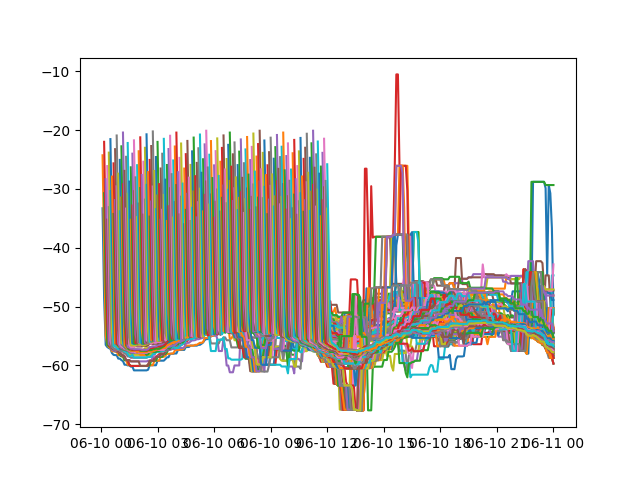
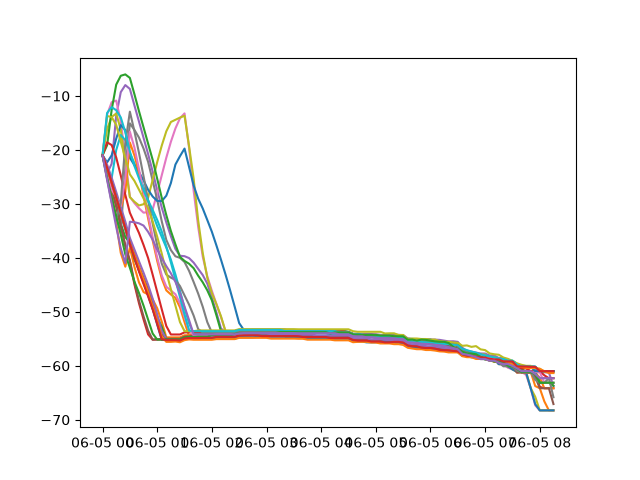
wip nov 9

diff --git a/opendrift/models/sedimentdrift.py b/opendrift/models/sedimentdrift.py
@@ -24,7 +24,7 @@ import logging; logger = logging.getLogger(__name__)
 from opendrift.models.oceandrift import OceanDrift
 from opendrift.models.oceandrift import Lagrangian3DArray
 from opendrift.config import CONFIG_LEVEL_ESSENTIAL, CONFIG_LEVEL_BASIC, CONFIG_LEVEL_ADVANCED
-
+logging.basicConfig(level=logging.WARNING)
 class SedimentElement(Lagrangian3DArray):
     variables = Lagrangian3DArray.add_variables([
         ('settled', {'dtype': np.uint8,  # 0 is active, 1 is settled
@@ -111,9 +111,12 @@ class SedimentDrift(OceanDrift):
         # self.elements.moving to 0.
         # These elements will not move until eventual later resuspension.
         settling = np.logical_and(self.elements.z <= seafloor_depth, self.elements.moving==1)
+        threshold = self.get_config('vertical_mixing:resuspension_threshold')
         if np.sum(settling) > 0:
             logger.debug('Settling %s elements at seafloor' % np.sum(settling))
             self.elements.moving[settling] = 0
+            if threshold is None:
+                self.elements.activated[settling] = 1
 
     def resuspension(self):
         """Resuspending elements if current speed > .5 m/s"""

diff --git a/opendrift/models/oceandrift.py b/opendrift/models/oceandrift.py
@@ -18,7 +18,8 @@ from datetime import datetime, timedelta
 import numpy as np
 import pandas as pd
 from scipy.interpolate import interp1d
-import logging; logger = logging.getLogger(__name__)
+import logging; logger = logging.getLogger(__name__); logger.setLevel(logging.WARNING) 
+
 from opendrift.models.basemodel import OpenDriftSimulation
 from opendrift.elements import LagrangianArray
 from opendrift.models.physics_methods import verticaldiffusivity_Large1994, verticaldiffusivity_Sundby1983
@@ -342,7 +343,7 @@ class OceanDrift(OpenDriftSimulation):
                     w_elevation = w_surface * (self.elements.z[applicable] + total_depth) / total_depth
                     w = w - w_elevation
                 else:
-                    logger.warning('vertical_advection_correction requires storing '
+                    logger.debug('vertical_advection_correction requires storing '
                                    'previous value of sea_surface_height')
 
             self.elements.z[applicable] = np.minimum(0,

diff --git a/examples/example_fvcom_aquaculture.py b/examples/example_fvcom_aquaculture.py
@@ -16,7 +16,7 @@ o = SedimentDrift(loglevel=20)  # Set loglevel to 0 for debug information
 
 try:
     proj = "+proj=utm +zone=9 +north +ellps=WGS84 +datum=WGS84 +units=m +no_defs"
-    fvcom = reader_netCDF_CF_unstructured.Reader(filename = '/mnt/c/tmp/rpcages03_0001.nc', proj4 = proj)
+    fvcom = reader_netCDF_CF_unstructured.Reader(filename = '/home/thupakip/data/tmp/rpcages04_0001.nc', proj4 = proj)
     o.add_reader(fvcom)
     print(fvcom)
 except:
@@ -38,7 +38,7 @@ if fvcom is not None:
     o.set_config('drift:vertical_advection_correction', True)
     o.set_config('vertical_mixing:resuspension_threshold', resuspension_threshold)
     # o.set_config('general:seafloor_action', 'deactivate')
-    fnc = '/mnt/c/tmp/rpcages_traj_sedcore_SSp5_RW5_RS10.nc'
+    fnc = '/home/thupakip/data/tmp/opendrift-02.nc'
 
 
     o.seed_elements(lon=lon, lat=lat, radius=5, number=N,
